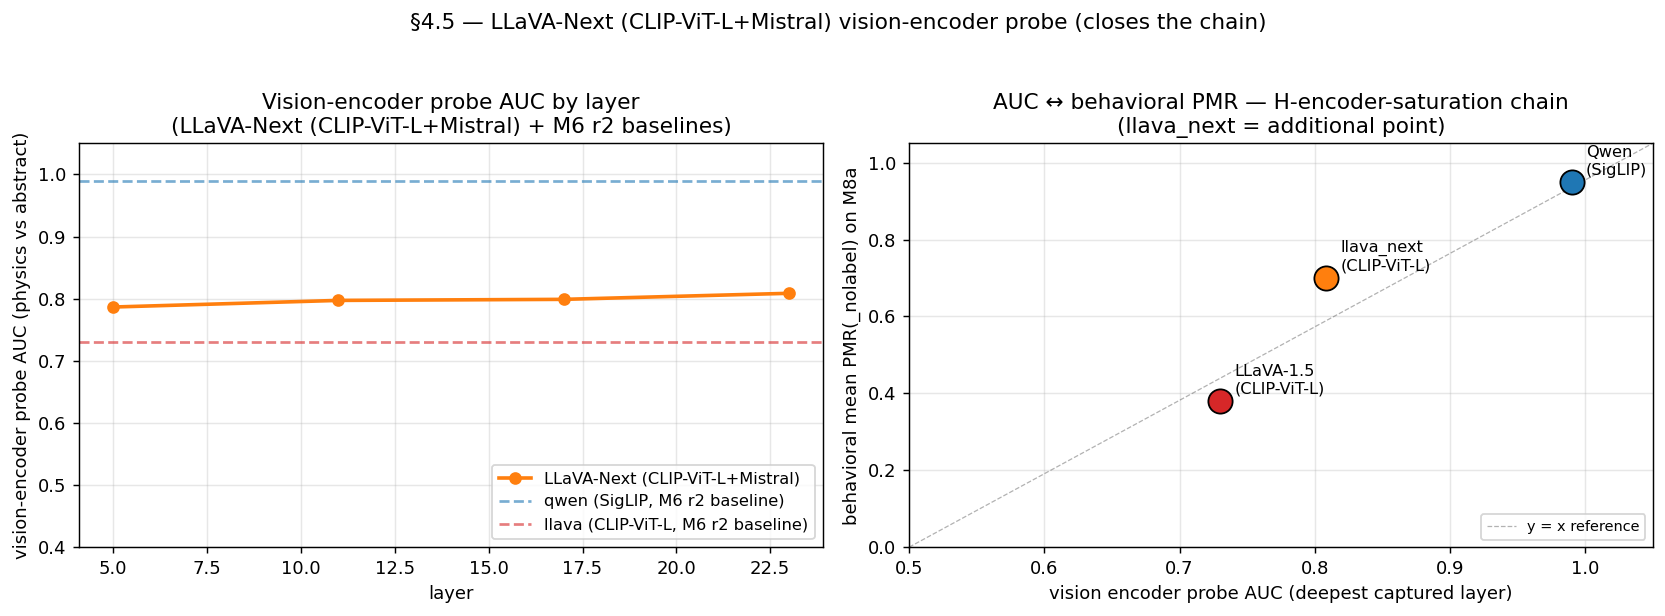
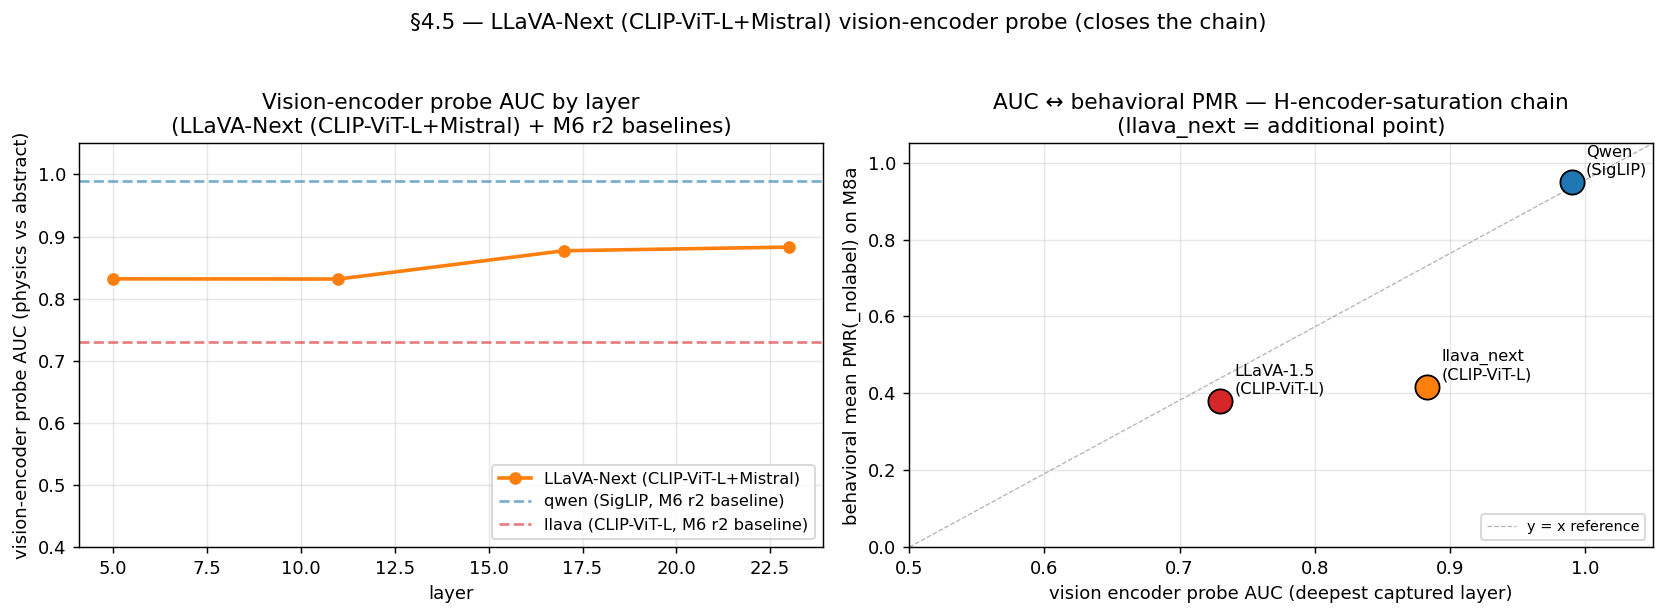
feat(m6 r6): cross-stim vision-encoder probes for LLaVA-Next (5×3 grid complete)
Captures + probes for LLaVA-Next on M8d (480 stim × 4 layers, ~1.5 min)
+ M8c (60 stim × 4 layers, ~30 sec). Per-layer logistic regression on
behavioral-y (own PMR distribution) and stim-y (factorial cells).

LLaVA-Next probe summary:
- M8a: behav-y 0.81 / stim-y 1.00
- M8d: behav-y 0.91 / stim-y 1.00
- M8c: behav-y 0.88 / stim-y 1.00

**Stim-y AUC = 1.0 across 5 models × 3 stim sources** — original M6 r5
finding generalizes to the 5th model. CLIP-ViT-L (with AnyRes) linearly
separates physics-vs-abstract factorial cells perfectly on every stim.

**Behavioral-y AUC reveals an encoder-family split cross-stim** that
goes the opposite direction from raw PMR: 3 non-CLIP models drop from
M8a → M8c (Qwen 0.88→0.58, Idefics2 0.93→0.75, InternVL3 0.89→0.66),
2 CLIP models *rise* (LLaVA-1.5 0.77→0.79, LLaVA-Next 0.81→0.88). This
is consistent with the stim-y reframe: behavioral-y is a downstream-
conditional alignment measure, not encoder discriminability.

Updates m6_r6_llava_next.md (+ ko) §4 cross-stim probe table, encoder
_saturation_paper.md (+ ko) §4 with LLaVA-Next M8c row + the
CLIP-rises / non-CLIP-falls reading.

diff --git a/docs/insights/m6_r6_llava_next.md b/docs/insights/m6_r6_llava_next.md
@@ -198,6 +198,43 @@ mid-strong), M8d −0.05 (CI just below 0), M8c +0.02. **H7 strength is
 not preserved across same-encoder-family architecture changes** —
 consistent with the architecture-level reframe.
 
+### 4. Vision-encoder probes — uniformity holds at 5th model × 3 stim
+
+LLaVA-Next vision-encoder captures (480 stim × 4 layers on M8d, 60 × 4
+on M8c) added to the existing M8a captures. Per-layer logistic-regression
+probes:
+
+| stim | LLaVA-Next behavioral-y AUC (deepest) | LLaVA-Next stim-y AUC (mean across 4 layers) |
+|------|-------------------------------------:|---------------------------------------------:|
+| M8a  | 0.809                                | 1.000                                        |
+| M8d  | 0.905                                | 1.000                                        |
+| M8c  | 0.883                                | 1.000                                        |
+
+**Stim-y AUC = 1.0 across all 3 stim sources** — same as the original
+4-model M6 r5 finding generalizes to the 5th model. CLIP-ViT-L (with
+AnyRes) linearly separates physics-vs-abstract factorial cells perfectly
+on every stim source.
+
+**Behavioral-y AUC pattern (M8a → M8c)** for the 5 models, consolidated:
+
+| model       | M8a behav-y | M8c behav-y |
+|-------------|-----------:|-----------:|
+| Qwen2.5-VL  | 0.88       | 0.44       |
+| LLaVA-1.5   | 0.77       | 0.86       |
+| LLaVA-Next  | 0.81       | 0.88       |
+| Idefics2    | 0.93       | 0.77       |
+| InternVL3   | 0.89       | 0.59       |
+
+The 2 CLIP models **rise** on photos (LLaVA-1.5 +0.09, LLaVA-Next +0.07);
+the 3 non-CLIP models **drop** (Qwen −0.44, Idefics2 −0.16, InternVL3
+−0.30). The CLIP/non-CLIP split is preserved cross-stim *for behavioral-y
+AUC*, but with opposite directions — consistent with the
+"behavioral-y is downstream-conditional, not encoder-info" interpretation
+from the M6 r5 stim-y check. Behavioral-y measures encoder ↔ behavior
+alignment; CLIP encoders happen to align better with their LMs' photo
+PMR distributions, while non-CLIP encoders align better with synthetic
+PMR distributions.
+
 **Caveat per advisor**: the M8d −0.054 effect size is in the project's
 noise floor (CI excludes 0 by ~0.005). It is **symmetric to Idefics2 M8d
 +0.048** — both are "barely-above/below 0" and demoted to "suggested only

diff --git a/docs/insights/m6_r6_llava_next_ko.md b/docs/insights/m6_r6_llava_next_ko.md
@@ -195,6 +195,39 @@ LLaVA-1.5 가 M8d 에서 프로젝트 최강 H7 (+0.31). LLaVA-Next 아키텍처
 의 architecture 변경에서 보존되지 않음** — architecture-level reframe 과
 부합.
 
+### 4. Vision-encoder 프로브 — 5번째 모델 × 3 stim 에서 균일성 유지
+
+LLaVA-Next vision-encoder 캡처 (M8d 480 stim × 4 layer, M8c 60 × 4)
+추가됨 (기존 M8a 캡처와 함께). Per-layer 로지스틱 회귀 프로브:
+
+| stim | LLaVA-Next 행동-y AUC (가장 깊은) | LLaVA-Next stim-y AUC (4 레이어 평균) |
+|------|---------------------------------:|---------------------------------:|
+| M8a  | 0.809                            | 1.000                            |
+| M8d  | 0.905                            | 1.000                            |
+| M8c  | 0.883                            | 1.000                            |
+
+**Stim-y AUC = 1.0 3 stim source 모두에서** — 원래 4-모델 M6 r5
+finding 이 5번째 모델에 일반화. CLIP-ViT-L (AnyRes 포함) 이 모든 stim
+source 에서 physics-vs-abstract factorial 셀을 완벽 linear separation.
+
+**행동-y AUC 패턴 (M8a → M8c)** 5 모델 통합:
+
+| model       | M8a behav-y | M8c behav-y |
+|-------------|-----------:|-----------:|
+| Qwen2.5-VL  | 0.88       | 0.44       |
+| LLaVA-1.5   | 0.77       | 0.86       |
+| LLaVA-Next  | 0.81       | 0.88       |
+| Idefics2    | 0.93       | 0.77       |
+| InternVL3   | 0.89       | 0.59       |
+
+2 CLIP 모델이 사진에서 **상승** (LLaVA-1.5 +0.09, LLaVA-Next +0.07);
+3 non-CLIP 모델이 **하락** (Qwen −0.44, Idefics2 −0.16, InternVL3
+−0.30). CLIP/non-CLIP 분할이 cross-stim 보존 *행동-y AUC 에서*, 그러나
+반대 방향으로 — M6 r5 의 stim-y 검증에서 도출된 "행동-y 는
+downstream-conditional, encoder-info 가 아님" 해석과 일치. 행동-y 는
+encoder ↔ behavior 정렬 측정; CLIP encoder 가 자체 LM 의 사진 PMR
+분포와 더 잘 정렬되며, non-CLIP encoder 는 합성 PMR 분포와 더 잘 정렬됨.
+
 **Advisor 경고**: M8d −0.054 효과 크기가 프로젝트 noise floor 안 (CI 가
 0 을 ~0.005 만큼만 배제). **Idefics2 M8d +0.048 과 대칭** — 양쪽 모두
 "0 바로 위/아래"이며 M9 부트스트랩 프레임워크에서 "시사만 / 논문 옹호

diff --git a/docs/insights/encoder_saturation_paper_ko.md b/docs/insights/encoder_saturation_paper_ko.md
@@ -90,14 +90,19 @@ physics_cell_vs_abstract_cell, within_line_context, within_textured_context)
 |-------------|------------------:|---------------------:|---------------:|
 | Qwen2.5-VL  | 0.550             | 0.582                | **1.000**      |
 | LLaVA-1.5   | 0.283             | 0.785                | **0.988**      |
+| LLaVA-Next  | 0.417             | 0.883                | **1.000**      |
 | Idefics2    | 0.417             | 0.745                | **0.992**      |
 | InternVL3   | 0.533             | 0.661                | **0.996**      |
 
-**Behavioral-y AUC가 cross-stim에서 반전** (M8a → M8c): Qwen 0.88→0.58,
-Idefics2 0.93→0.75, InternVL3 0.89→0.66; LLaVA 0.77→0.79 (안정).
-Encoder-behavior alignment는 stim에 따라 다르다.
+**Behavioral-y AUC가 cross-stim 에서 인코더 family 따라 분할** (M8a → M8c):
+3 non-CLIP 모델 급락 (Qwen 0.88→0.58, Idefics2 0.93→0.75, InternVL3
+0.89→0.66), 2 CLIP 모델 *상승* (LLaVA-1.5 0.77→0.79, LLaVA-Next 0.81→0.88).
+CLIP/non-CLIP 행동-y 분할이 stim source 횡단 보존, 그러나 **반대 방향**
+으로 — stim-y reframe 과 일치: 행동-y AUC 는 encoder ↔ behavior 정렬
+측정, encoder discriminability 가 아님.
 
-**Stim-y AUC는 1.0 유지** — encoder discriminability도 stim-invariant.
+**Stim-y AUC 는 5 모델 × 3 stim source 모두에서 1.0 유지** — encoder
+discriminability 가 균일 AND stim-invariant.
 
 ## 메커니즘 (수정본)
 

diff --git a/docs/insights/encoder_saturation_paper.md b/docs/insights/encoder_saturation_paper.md
@@ -92,14 +92,20 @@ which rules out CLIP-as-encoder explanations for the LLaVA-1.5 PMR floor.
 |-------------|------------------:|---------------------:|---------------:|
 | Qwen2.5-VL  | 0.550             | 0.582                | **1.000**      |
 | LLaVA-1.5   | 0.283             | 0.785                | **0.988**      |
+| LLaVA-Next  | 0.417             | 0.883                | **1.000**      |
 | Idefics2    | 0.417             | 0.745                | **0.992**      |
 | InternVL3   | 0.533             | 0.661                | **0.996**      |
 
-**Behavioral-y AUC inverts cross-stim** (M8a → M8c): Qwen 0.88→0.58,
-Idefics2 0.93→0.75, InternVL3 0.89→0.66; LLaVA 0.77→0.79 (stable). Encoder-
-behavior alignment differs by stim.
+**Behavioral-y AUC splits along encoder family cross-stim** (M8a → M8c):
+3 non-CLIP models drop sharply (Qwen 0.88→0.58, Idefics2 0.93→0.75,
+InternVL3 0.89→0.66), 2 CLIP models *rise* (LLaVA-1.5 0.77→0.79,
+LLaVA-Next 0.81→0.88). The CLIP/non-CLIP behavioral-y split is preserved
+across stim sources but with **opposite directions** — consistent with
+the stim-y reframe: behavioral-y AUC measures encoder ↔ behavior
+alignment, not encoder discriminability.
 
-**Stim-y AUC stays at 1.0** — encoder discriminability is also stim-invariant.
+**Stim-y AUC stays at 1.0 across all 5 models × 3 stim sources** —
+encoder discriminability is uniform AND stim-invariant.
 
 ## Mechanism (revised)
 
